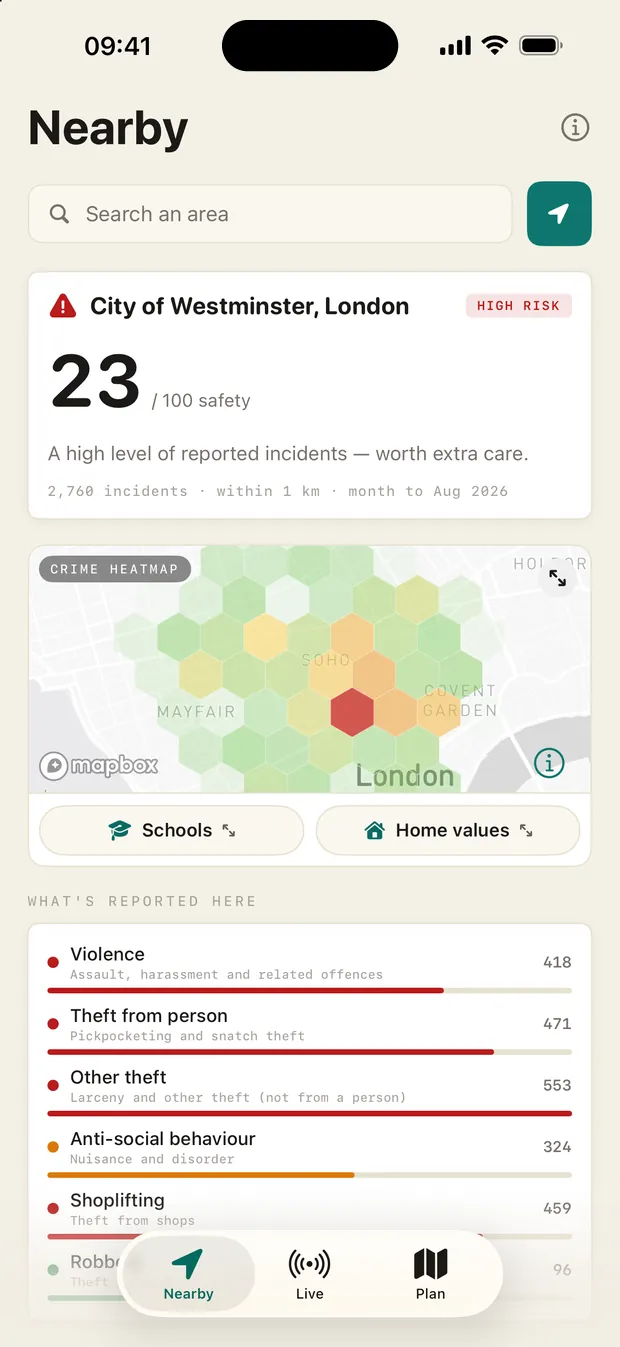
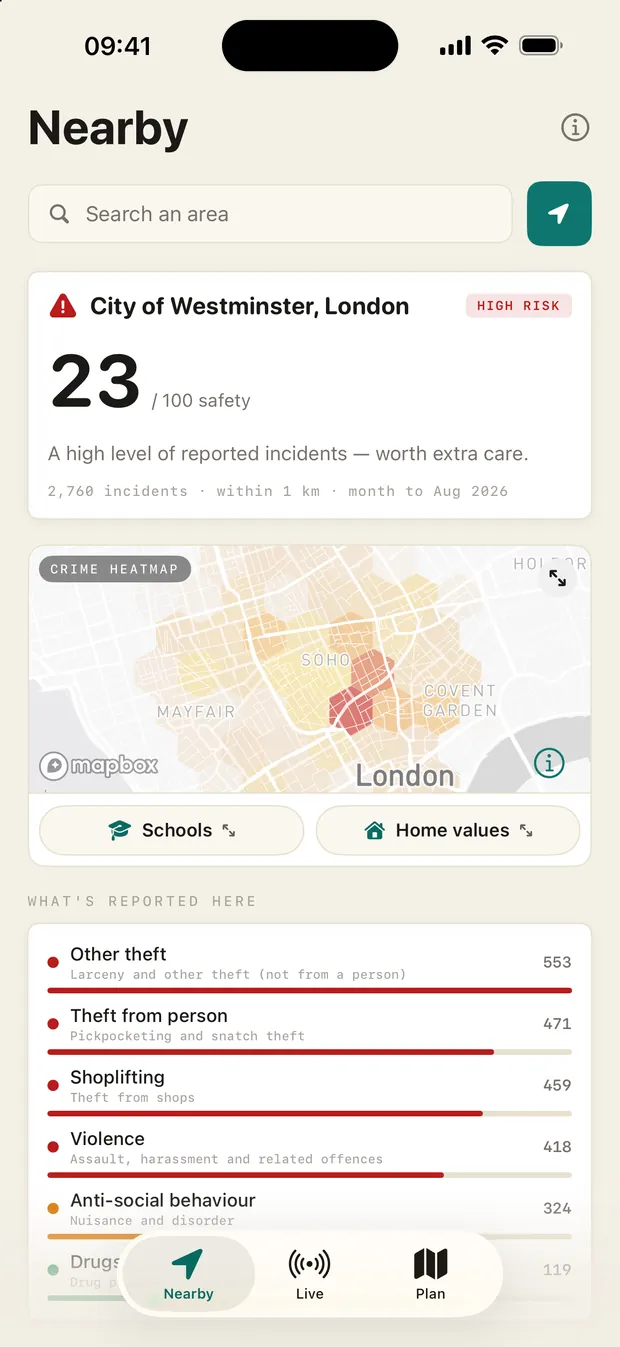
Homepage for 1.4.2 (RELEASE DAY ONLY: publish once 1.4.2 is live)
- New first section "New in 1.4.2", worded from the What's New submitted
  on 3 November 2026 (release-1.4.2/DRAFT-1.4.2-store-and-review.md,
  hash-matched in SUBMITTED-2026-11-03.md): guidance carries on when iOS
  disconnects the screen; the crime shading under the roads with a sand
  low end; the large widget's Mapbox map of the whole 1 km area and the
  most reported categories first; Channel Islands 999 and the Mapbox
  server-error crash as a one-line "Also in 1.4.2".
  No screenshot in it: the widget shot carries a safety score, and the
  next section holds the home-values card.
- The schools and home values section keeps its text, as "Since 1.4"
  (id schools-values; nothing links to #new).
- Hero: "Version 1.4.2 — a new look for the crime map".
- assets/shot-nearby.webp from r4-screenshots/1.4.2/01-nearby-london.png
  (sha256 400e8525..., Release build of 624ab18, 31 October 2026) by the
  same recipe; alt text names the shading under the roads and the most
  reported categories first. Same 620x1347.

diff --git a/index.html b/index.html
@@ -226,7 +226,7 @@
   <div class="wrap">
     <div class="hero-grid">
       <div>
-        <div class="eyebrow reveal" style="--i:0">Version 1.4.1 — schools, home values</div>
+        <div class="eyebrow reveal" style="--i:0">Version 1.4.2 — a new look for the crime map</div>
         <h1 class="h1-hero reveal" style="--i:1">See your street<br><span class="grad">before you walk it.</span></h1>
         <p class="lede reveal" style="--i:2">
           SafeRoute scores any address from official police and dispatch data, plans walking routes
@@ -272,7 +272,47 @@
   </div></div>
 </div>
 
-<!-- ══════════ NEW IN 1.4 ══════════ -->
+<!-- ══════════ NEW IN 1.4.2 ══════════ -->
+<!-- Worded from the 1.4.2 What's New as submitted on 3 November 2026
+     (SafeRouteApp/release-1.4.2/DRAFT-1.4.2-store-and-review.md, hash-matched
+     in SUBMITTED-2026-11-03.md). PUBLISH ONLY ONCE 1.4.2 IS LIVE: until then
+     every card here describes something users of 1.4.1 do not have. No
+     screenshot here on purpose: the widget shot carries a safety score, and
+     the next section holds the home-values card (house rule above). -->
+<section class="sec" id="new" style="border-top:none">
+  <div class="wrap">
+    <div class="reveal" style="max-width:62ch">
+      <div class="eyebrow">New in 1.4.2</div>
+      <h2>Your walk keeps going in your pocket.</h2>
+      <p class="lede" style="margin-top:18px">
+        If iOS disconnects SafeRoute's screen partway through a walk, for example
+        with your phone locked in a pocket, turn-by-turn guidance now carries on.
+        Before, it could stop until you opened SafeRoute again.
+      </p>
+    </div>
+    <div class="cards">
+      <div class="card reveal" style="--i:0">
+        <h3>Guidance that carries on</h3>
+        <p>Spoken directions, the Live Activity, your Apple&nbsp;Watch, a walk you share with Live location, and arrival all keep going, without SafeRoute planning your route again.</p>
+      </div>
+      <div class="card reveal" style="--i:1">
+        <h3>A new look for the crime map</h3>
+        <p>On Nearby, Plan and the large Home Screen widget, the crime shading now sits under the roads, so roads and place names show over it, and its quietest areas are a pale warm sand instead of green.</p>
+      </div>
+      <div class="card reveal" style="--i:2">
+        <h3>A clearer widget</h3>
+        <p>The large widget's map now comes from Mapbox, in the same map style as the app, and shows the whole 1&nbsp;km area its figures count. Widgets list the most reported categories first.</p>
+      </div>
+    </div>
+    <p class="also-new reveal">
+      Also in 1.4.2: in the Channel Islands, SafeRoute now offers 999, the
+      islands' emergency number, instead of 112; and starting navigation no
+      longer crashes when Mapbox's routing service has a server error.
+    </p>
+  </div>
+</section>
+
+<!-- ══════════ SCHOOLS AND HOME VALUES (1.4, 1.4.1) ══════════ -->
 <!-- Worded from the 1.4 App Store text (SUBMISSION.md desc-en, whatsnew-en).
      House rules: never "average"; an owners' estimate is never a "price";
      no home-value figure or card next to a safety score (the Nearby shot
@@ -283,10 +323,10 @@
      never "16 states". No counts here: the app's data is fixed at its
      version, so a data-fact number (which follows the website's monthly
      rebuilds) would drift from it. -->
-<section class="sec" id="new" style="border-top:none">
+<section class="sec" id="schools-values">
   <div class="wrap">
     <div class="reveal" style="max-width:62ch">
-      <div class="eyebrow">New in 1.4 and 1.4.1</div>
+      <div class="eyebrow">Since 1.4</div>
       <h2>Schools and home values, on the Nearby map.</h2>
       <p class="lede" style="margin-top:18px">
         On Nearby, tap Schools or Home values under the crime heatmap to open
@@ -467,7 +507,7 @@
       </div>
       <div class="row-media reveal">
         <div class="phone"><img src="assets/shot-nearby.webp" width="620" height="1347" loading="lazy"
-          alt="SafeRoute Nearby screen: a 23 out of 100 safety index for City of Westminster, a crime heatmap with Schools and Home values buttons, and a category breakdown"></div>
+          alt="SafeRoute Nearby screen: a 23 out of 100 safety index for City of Westminster, a crime map shaded under the roads with Schools and Home values buttons, and the most reported categories first"></div>
       </div>
     </div>
   </div>
